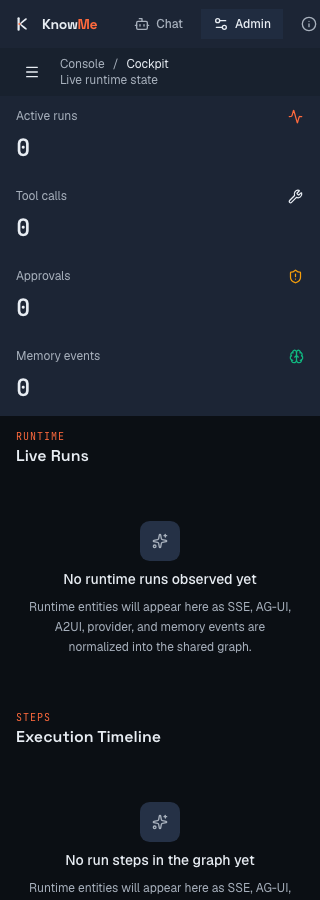
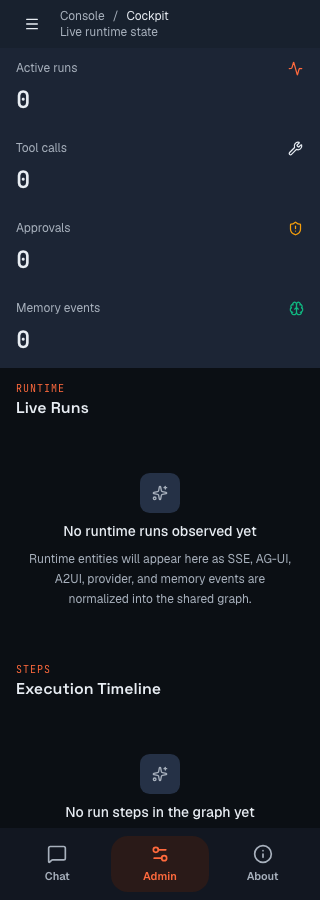
feat: UI convergence fully merged — pointer to submodule main 644a80f
Submodule PRs #172 (shell-navigation), #173 (a2ui-retoken), #174
(verify-gates), and #175 (chain completion) are merged; submodule main
now carries the complete UAR→KnowMe UI convergence. Post-merge main
verified: tsc clean, vite build green, vitest 153/153. Screenshot
matrix recaptured against the merged rail/bottom-bar shell; resolves
the dangling pointer noted in the KBD waypoint blockedReason.

diff --git a/openspec/changes/uar-ui-verify-gates/verification-notes.md b/openspec/changes/uar-ui-verify-gates/verification-notes.md
@@ -1,11 +1,17 @@
 # Verification notes — uar-ui-verify-gates
 
-Recorded 2026-07-21 (kimi). Branch `uar-ui-verify-gates` in the UAR submodule,
-based on `origin/main` (dc158a8) + the a2ui-retoken work (PR #173 open).
+Recorded 2026-07-21 (kimi). **Final state: all five convergence PRs merged to
+`main` (644a80f)** — #172 shell-navigation (1d8b3ba), #173 a2ui-retoken (9539a0a),
+#174 verify-gates (c7239b7), #175 chain completion (644a80f). Post-merge main:
+`tsc -b` clean, `vite build` green, vitest **153/153**. The screenshot matrix
+under `screenshots/` was recaptured against the merged rail/bottom-bar shell.
+
 Environment: pre-existing backend on `:1906` serving the freshly built static
 bundle from this tree; Vite dev `:8080` (Playwright-managed); `stub-llm` via the
-dedicated real-server config. Note: shell-nav (#172) was unmerged at capture
-time — the matrix shows the rebranded top-nav shell; re-run cheaply after merge.
+dedicated real-server config. (Earlier captures in this file's history showed
+the rebranded top-nav era while #172 was unmerged; the committed matrix is the
+final merged shell — rail at 1440, bottom bar at 320, ThemeToggle in the rail
+header, readiness card "Ready · Embedded · local".)
 
 ## Headline results
 
